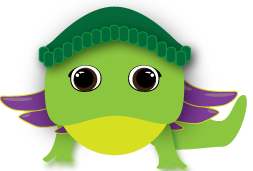
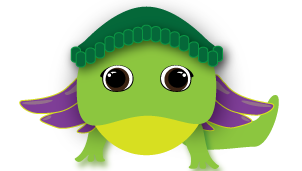
added evolution 4, all around

diff --git a/MonsterAPP_Storyboard_Wireframes/MonsterAPP_Storyboard_Wireframes/TaskListViewController.m b/MonsterAPP_Storyboard_Wireframes/MonsterAPP_Storyboard_Wireframes/TaskListViewController.m
@@ -167,6 +167,15 @@
         [self.monsterEvolutionImage growLimbsEvo3];
         
     
+    } else if ([evolutionNumber intValue] == 4) {
+        
+        self.monsterLeftEyeImage.hidden = YES;
+        self.monsterRightEyeImage.hidden = YES;
+        self.fullMonsterImage.hidden = YES;
+        self.mouthOpenImage.hidden = YES;
+        self.blushedCheeksImage.hidden = YES;
+        
+        [self.monsterEvolutionImage growWingsEvo4];
     }
 }
 
@@ -425,8 +434,8 @@
 
     // i put this here because it needs access to step.
     //the number of points per evolution, relates to a completion percentage
+   
     //the actual xp / possible xp, creates a percentage of points completed.
-    
     int updatedTaskXP = [self.selectedTask.actualXP intValue]+ [step.stepXP intValue];
 
     NSLog(@"updated task XP: %d", updatedTaskXP);
@@ -441,7 +450,7 @@
         self.selectedTask.taskComplete = [NSNumber numberWithBool:YES];
     }
     
-    float percentageOfPotentialEvolutions= [self.selectedTask.monster.evolutions count]*.1f;
+    float percentageOfPotentialEvolutions= 1.0f/[self.selectedTask.monster.evolutions count];
     NSLog(@"percent of evolutions:%f", percentageOfPotentialEvolutions);
     
     
@@ -455,30 +464,48 @@
     self.sortedEvolutions = [evolutionsSet sortedArrayUsingDescriptors: [NSArray arrayWithObject:sortByEvoNumber]];
 
     
-    if (percentageOfCompletedSteps < percentageOfPotentialEvolutions){
+    if (percentageOfCompletedSteps <= percentageOfPotentialEvolutions){
         NSLog(@"evolution s/b: 1");
+        
+        
         self.selectedTask.actualXP = [NSNumber numberWithInt: updatedTaskXP];
         //[self performSegueWithIdentifier:@"segueToEvolve" sender:self];
         ((Evolution*)self.sortedEvolutions[0]).currentEvolution = [NSNumber numberWithBool:YES];
         ((Evolution*)self.sortedEvolutions[1]).currentEvolution = [NSNumber numberWithBool:NO];
         ((Evolution*)self.sortedEvolutions[2]).currentEvolution = [NSNumber numberWithBool:NO];
+        ((Evolution*)self.sortedEvolutions[3]).currentEvolution = [NSNumber numberWithBool:NO];
+
         
-    } else if (percentageOfCompletedSteps < (percentageOfPotentialEvolutions*2)){
+    } else if (percentageOfCompletedSteps <= (percentageOfPotentialEvolutions*2)){
         NSLog(@"evolution s/b: 2");
         self.selectedTask.actualXP = [NSNumber numberWithInt: updatedTaskXP];
         //[self performSegueWithIdentifier:@"segueToEvolve" sender:self];
         ((Evolution*)self.sortedEvolutions[0]).currentEvolution = [NSNumber numberWithBool:NO];
         ((Evolution*)self.sortedEvolutions[1]).currentEvolution = [NSNumber numberWithBool:YES];
         ((Evolution*)self.sortedEvolutions[2]).currentEvolution = [NSNumber numberWithBool:NO];
+        ((Evolution*)self.sortedEvolutions[3]).currentEvolution = [NSNumber numberWithBool:NO];
+
         
-    } else if (percentageOfCompletedSteps <percentageOfPotentialEvolutions*3){
+    } else if (percentageOfCompletedSteps <= percentageOfPotentialEvolutions*3){
         NSLog(@"evolution s/b: 3");
         self.selectedTask.actualXP = [NSNumber numberWithInt: updatedTaskXP];
         //[self performSegueWithIdentifier:@"segueToEvolve" sender:self];
         ((Evolution*)self.sortedEvolutions[0]).currentEvolution = [NSNumber numberWithBool:NO];
         ((Evolution*)self.sortedEvolutions[1]).currentEvolution = [NSNumber numberWithBool:NO];
-        ((Evolution*)self.sortedEvolutions[2]).currentEvolution = [NSNumber numberWithBool:YES];    }
+        ((Evolution*)self.sortedEvolutions[2]).currentEvolution = [NSNumber numberWithBool:YES];
+        ((Evolution*)self.sortedEvolutions[3]).currentEvolution = [NSNumber numberWithBool:NO];
+
+    } else if (percentageOfCompletedSteps <= percentageOfPotentialEvolutions*4){
+        NSLog(@"evolution s/b: 4");
+        self.selectedTask.actualXP = [NSNumber numberWithInt: updatedTaskXP];
+        //[self performSegueWithIdentifier:@"segueToEvolve" sender:self];
+        ((Evolution*)self.sortedEvolutions[0]).currentEvolution = [NSNumber numberWithBool:NO];
+        ((Evolution*)self.sortedEvolutions[1]).currentEvolution = [NSNumber numberWithBool:NO];
+        ((Evolution*)self.sortedEvolutions[2]).currentEvolution = [NSNumber numberWithBool:NO];
+        ((Evolution*)self.sortedEvolutions[3]).currentEvolution = [NSNumber numberWithBool:YES];
+    }
     
+
     NSError *error = nil;
     if (![managedObjectContext save:&error]) {
         
@@ -531,7 +558,7 @@
     }
     
 }
-
+ 
 #pragma mark Setup FetchedResults controller
 
 -(NSFetchedResultsController *) stepsResultController {

diff --git a/MonsterAPP_Storyboard_Wireframes/MonsterAPP_Storyboard_Wireframes/MonsterEvolutionImageView.m b/MonsterAPP_Storyboard_Wireframes/MonsterAPP_Storyboard_Wireframes/MonsterEvolutionImageView.m
@@ -14,8 +14,11 @@
     NSArray *tailFlickArray;
     NSArray *turtleWobble;
     NSArray *evolution3Array;
+    NSArray *evolution4Array;
+
     SystemSoundID  soundID3;
 }
+
 
 - (id)initWithFrame:(CGRect)frame
 {
@@ -102,11 +105,16 @@
 {
     
     turtleWobble = [NSArray arrayWithObjects:
-                    [UIImage imageNamed:@"turtling-ev1-for-TaskView-1.png"],[UIImage imageNamed:@"turtling-ev1-for-TaskView-2.png"],[UIImage imageNamed:@"turtling-ev1-for-TaskView-3.png"],[UIImage imageNamed:@"turtling-ev1-for-TaskView-4.png"],[UIImage imageNamed:@"turtling-ev1-for-TaskView-3.png"], [UIImage imageNamed:@"turtling-ev1-for-TaskView-2.png"],  [UIImage imageNamed:@"turtling-ev1-for-TaskView-1.png"],nil];
+                    [UIImage imageNamed:@"turtling-ev1-for-TaskView-1.png"],
+                    [UIImage imageNamed:@"turtling-ev1-for-TaskView-2.png"],
+                    [UIImage imageNamed:@"turtling-ev1-for-TaskView-3.png"],
+                    [UIImage imageNamed:@"turtling-ev1-for-TaskView-4.png"],
+                    [UIImage imageNamed:@"turtling-ev1-for-TaskView-3.png"],
+                    [UIImage imageNamed:@"turtling-ev1-for-TaskView-2.png"],
+                    [UIImage imageNamed:@"turtling-ev1-for-TaskView-1.png"],nil];
     
     self.animationImages = turtleWobble;
     self.animationDuration = 1.0f;
-    //self.stillStickFigureImageView.alpha = 0;
     
     [self startAnimating];
 }
@@ -115,7 +123,10 @@
 -(void)tailFlickAnimate {
     
  tailFlickArray = [NSArray arrayWithObjects:
-                  [UIImage imageNamed:@"turtling-ev2-for-TaskView-tailLow.png"],[UIImage imageNamed:@"turtling-ev2-for-TaskView-tailMiddle.png"],[UIImage imageNamed:@"turtling-ev2-for-TaskView-tailHigh.png"],[UIImage imageNamed:@"turtling-ev2-for-TaskView-tailMiddle.png"],nil];
+                   [UIImage imageNamed:@"turtling-ev2-for-TaskView-tailLow.png"],
+                   [UIImage imageNamed:@"turtling-ev2-for-TaskView-tailMiddle.png"],
+                   [UIImage imageNamed:@"turtling-ev2-for-TaskView-tailHigh.png"],
+                   [UIImage imageNamed:@"turtling-ev2-for-TaskView-tailMiddle.png"],nil];
 
 self.animationImages = tailFlickArray;
 self.animationDuration = 1.0f;
@@ -127,7 +138,12 @@ self.animationDuration = 1.0f;
 -(void) growLimbsEvo3 {
     
 evolution3Array = [NSArray arrayWithObjects:
-                   [UIImage imageNamed:@"turtling-ev3-for-TaskView-1.png"],[UIImage imageNamed:@"turtling-ev3-for-TaskView-2.png"],[UIImage imageNamed:@"turtling-ev2-for-TaskView-3.png"],[UIImage imageNamed:@"turtling-ev3-for-TaskView-4.png"], [UIImage imageNamed:@"turtling-ev2-for-TaskView-3.png"], [UIImage imageNamed:@"turtling-ev2-for-TaskView-2.png"],nil];
+                   [UIImage imageNamed:@"turtling-ev3-for-TaskView-1.png"],
+                   [UIImage imageNamed:@"turtling-ev3-for-TaskView-2.png"],
+                   [UIImage imageNamed:@"turtling-ev3-for-TaskView-3.png"],
+                   [UIImage imageNamed:@"turtling-ev3-for-TaskView-4.png"],
+                   [UIImage imageNamed:@"turtling-ev3-for-TaskView-3.png"],
+                   [UIImage imageNamed:@"turtling-ev3-for-TaskView-2.png"],nil];
 
 self.animationImages = evolution3Array;
 self.animationDuration = 1.0f;
@@ -136,4 +152,26 @@ self.animationDuration = 1.0f;
     
 }
 
+-(void) growWingsEvo4 {
+    
+    evolution3Array = [NSArray arrayWithObjects:
+                       [UIImage imageNamed:@"turtling-ev4-for-TaskView-1.png"],
+                       [UIImage imageNamed:@"turtling-ev4-for-TaskView-2.png"],
+                       [UIImage imageNamed:@"turtling-ev4-for-TaskView-3.png"],
+                       [UIImage imageNamed:@"turtling-ev4-for-TaskView-4.png"],
+                       [UIImage imageNamed:@"turtling-ev4-for-TaskView-5.png"],
+                       [UIImage imageNamed:@"turtling-ev4-for-TaskView-6.png"],
+                       [UIImage imageNamed:@"turtling-ev4-for-TaskView-7.png"],
+                       [UIImage imageNamed:@"turtling-ev4-for-TaskView-6.png"],
+                       [UIImage imageNamed:@"turtling-ev4-for-TaskView-5.png"],
+                       [UIImage imageNamed:@"turtling-ev4-for-TaskView-4.png"],
+                       [UIImage imageNamed:@"turtling-ev4-for-TaskView-3.png"],
+                       [UIImage imageNamed:@"turtling-ev4-for-TaskView-2.png"],nil];
+    
+    self.animationImages = evolution3Array;
+    self.animationDuration = 1.0f;
+    
+    [self startAnimating];
+    
+}
 @end

diff --git a/MonsterAPP_Storyboard_Wireframes/MonsterAPP_Storyboard_Wireframes/EggHatchesViewController.m b/MonsterAPP_Storyboard_Wireframes/MonsterAPP_Storyboard_Wireframes/EggHatchesViewController.m
@@ -141,7 +141,7 @@
     self.evolution1.thumbnailName = @"turtling-ev1-thumbnail.png";
     self.evolution1.eggImageName = @"firstEgg.png";
     self.evolution1.monster = self.monster;
-    self.evolution1.currentEvolution = [NSNumber numberWithBool:YES];
+    self.evolution1.currentEvolution = [NSNumber numberWithBool:NO];
     [self.monster addEvolutionsObject:self.evolution1];
 
     
@@ -167,6 +167,18 @@
     self.evolution3.monster = self.monster;
     self.evolution3.currentEvolution = [NSNumber numberWithBool:NO];
     [self.monster addEvolutionsObject:self.evolution3];
+    
+    //create managedObject
+    self.evolution4 = [NSEntityDescription insertNewObjectForEntityForName:@"Evolution" inManagedObjectContext:managedObjectContext];
+    
+    //set managedObject properties
+    self.evolution4.evolutionNumber = [NSNumber numberWithInt:4];
+    self.evolution4.evolutionDescription=@"Looks like your tuserpent has grown wings.";
+    self.evolution4.thumbnailName = @"turtling-ev4-thumbnail.png";
+    self.evolution4.monster = self.monster;
+    self.evolution4.currentEvolution = [NSNumber numberWithBool:NO];
+    [self.monster addEvolutionsObject:self.evolution4];
+
 
     NSError *error = nil;
     if (![managedObjectContext save:&error]) {

diff --git a/MonsterAPP_Storyboard_Wireframes/MonsterAPP_Storyboard_Wireframes/EvolutionViewController.m b/MonsterAPP_Storyboard_Wireframes/MonsterAPP_Storyboard_Wireframes/EvolutionViewController.m
@@ -48,10 +48,15 @@
         
         [self performSelector:@selector(flickTailEvo2) withObject:nil afterDelay:.5f];
     
-    } else {
-
+    } else if([self.evolutionForImages.evolutionNumber intValue]== 3)
+        {
+            
         [self performSelector:@selector(addLimbsEvo3) withObject:nil afterDelay:.5f];
-    }
+        
+        } else {
+        
+            [self performSelector:@selector(addWingsEvo4) withObject:nil afterDelay:.5f];
+        }
 
 	// Do any additional setup after loading the view.
     
@@ -93,6 +98,13 @@
     
     [self.monsterImagesForAnimation growLimbsEvo3];
 
+}
+
+-(void)addWingsEvo4
+{
+    
+    [self.monsterImagesForAnimation growWingsEvo4];
+    
 }
 
 - (void)goBackToTaskView {

diff --git a/MonsterAPP_Storyboard_Wireframes/MonsterAPP_Storyboard_Wireframes/EggHatchesViewController.h b/MonsterAPP_Storyboard_Wireframes/MonsterAPP_Storyboard_Wireframes/EggHatchesViewController.h
@@ -28,6 +28,7 @@
 @property (strong, nonatomic) Evolution *evolution1;
 @property (strong, nonatomic) Evolution *evolution2;
 @property (strong, nonatomic) Evolution *evolution3;
+@property (strong, nonatomic) Evolution *evolution4;
 
 @property (strong, nonatomic) NSString *taskDueString;
 @property (strong, nonatomic) NSString *taskProjectType;

diff --git a/MonsterAPP_Storyboard_Wireframes/MonsterAPP_Storyboard_Wireframes/MonsterEvolutionImageView.h b/MonsterAPP_Storyboard_Wireframes/MonsterAPP_Storyboard_Wireframes/MonsterEvolutionImageView.h
@@ -14,6 +14,7 @@
 -(void) animationOne;
 -(void)tailFlickAnimate;
 -(void) growLimbsEvo3;
+-(void) growWingsEvo4;
 -(void) showCheeksAnimation;
 -(void) animateEyesForBlinking;
 -(void) blinkOpenAnimationForMonster;
